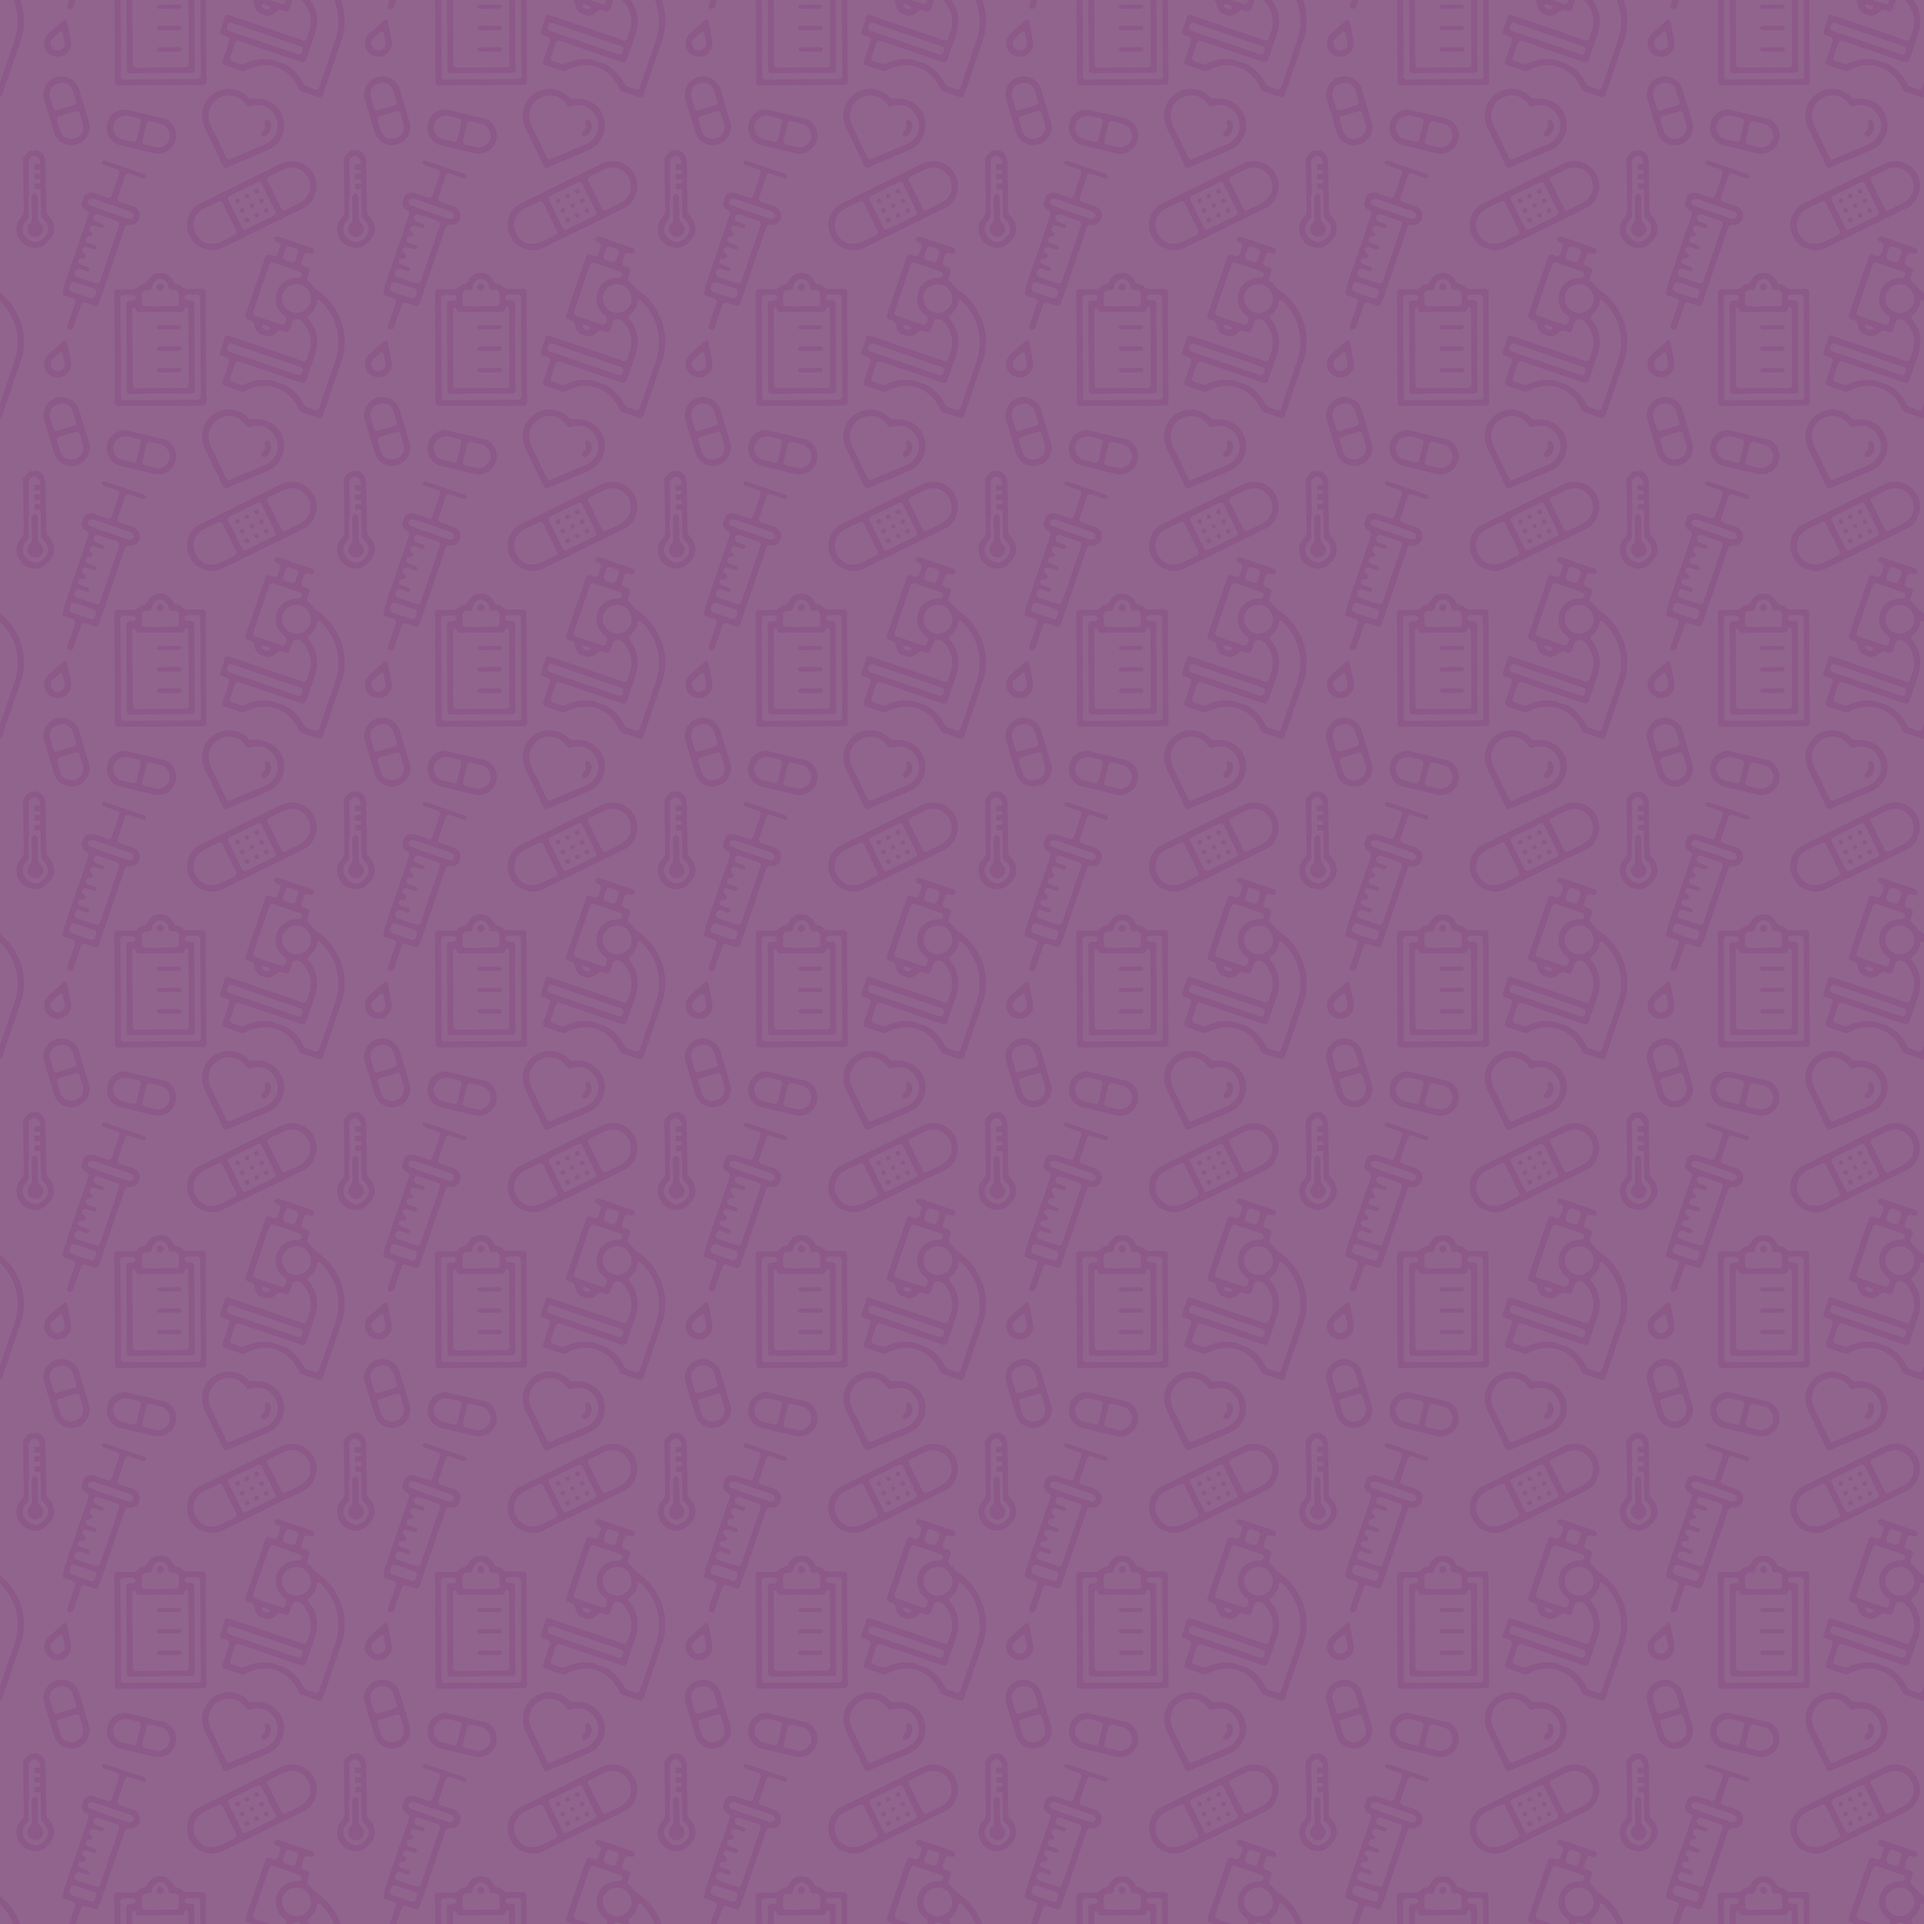
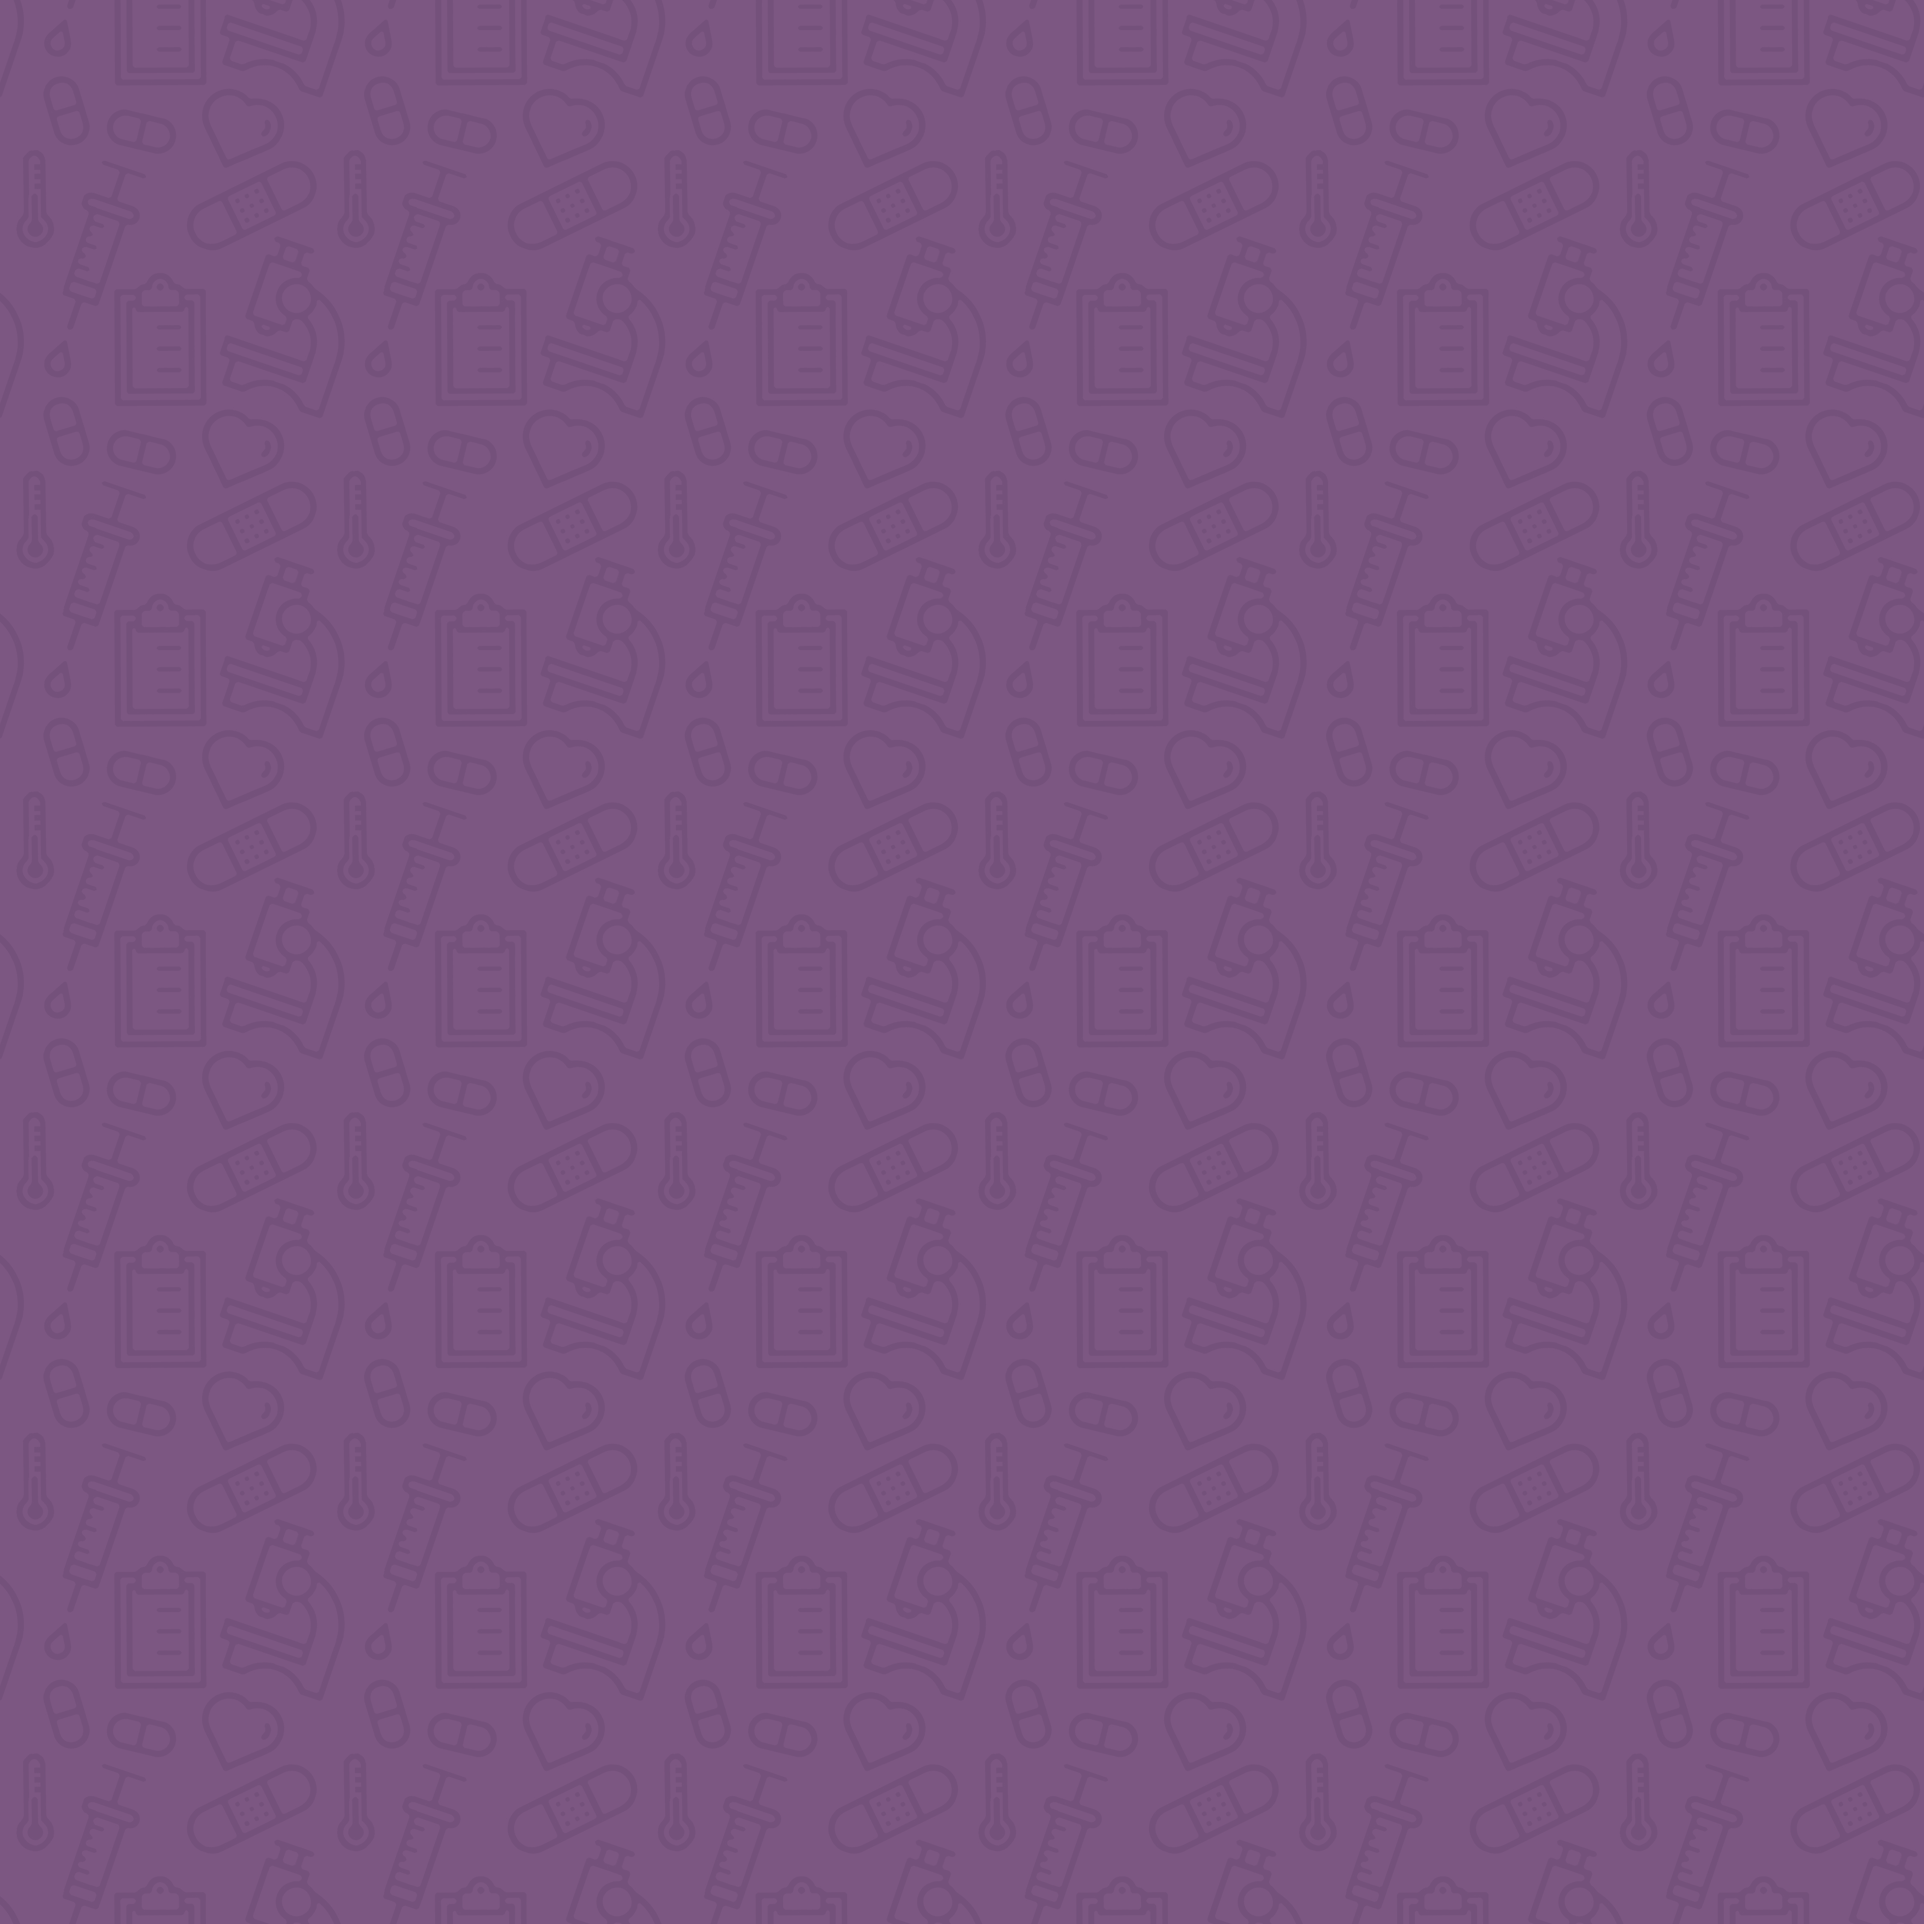
fecha01abrilG

diff --git a/css/style.css b/css/style.css
@@ -53,8 +53,8 @@ colores CANCER PROSTATA:
 dorado= #ffcc00
 dorado activo= #FAA300
 naranja= #ff5e00
-morado= #565f9a
-morado oscuro= #3F4A93
+rosa= #7c5781
+rosa oscuro= #74517b
 gris claro= #f8f7f4
 gris oscuro= #D3D3D3
 *
@@ -167,11 +167,11 @@ figure {
   color: #FAA300;
 }
 .morado{
-  color: #565f9a;
+  color: #7c5781;
 }
 .bgdorado{
   font-weight: 700;
-  color: #565f9a;
+  color: #7c5781;
   letter-spacing: 1.5px;
   background-color: #ffcc00;
   padding-left: 3px;
@@ -181,7 +181,7 @@ figure {
   font-weight: 400;
   color: white;
   letter-spacing: 1.5px;
-  background-color: #565f9a;
+  background-color: #7c5781;
   padding-left: 3px;
   padding-right: 2px;
 }
@@ -255,13 +255,13 @@ figure {
 .destacado h5{
 		font-weight: 600;
 	  text-align: center;
-		color: #565f9a;
+		color: #7c5781;
 		margin-bottom: -9px;
 }
 .destacado p{
 		line-height: 1.2;
 	  text-align: center;
-		color: #565f9a;
+		color: #7c5781;
 }
 #ico-page {
   width: 100%;
@@ -277,7 +277,7 @@ figure {
   bottom: 0;
   top: 0;
   left: 0;
-  background-color: #565f9a;
+  background-color: #7c5781;
 	background-image: url(../images/BGoscuro.jpg);
   overflow-y: scroll;
 	overflow-x: hidden;
@@ -497,7 +497,7 @@ body.offcanvas #ico-main, body.offcanvas .ico-nav-toggle {
 }
 
 .ico-table th {
-  background-color: #565f9a;
+  background-color: #7c5781;
 }
 
 .table-borde {
@@ -635,7 +635,7 @@ body.offcanvas #ico-main, body.offcanvas .ico-nav-toggle {
   letter-spacing: .2em;
   padding: 4px 8px;
 	color: white;
-  background: #565f9a;
+  background: #7c5781;
   display: -moz-inline-stack;
   display: inline-block;
   zoom: 1;
